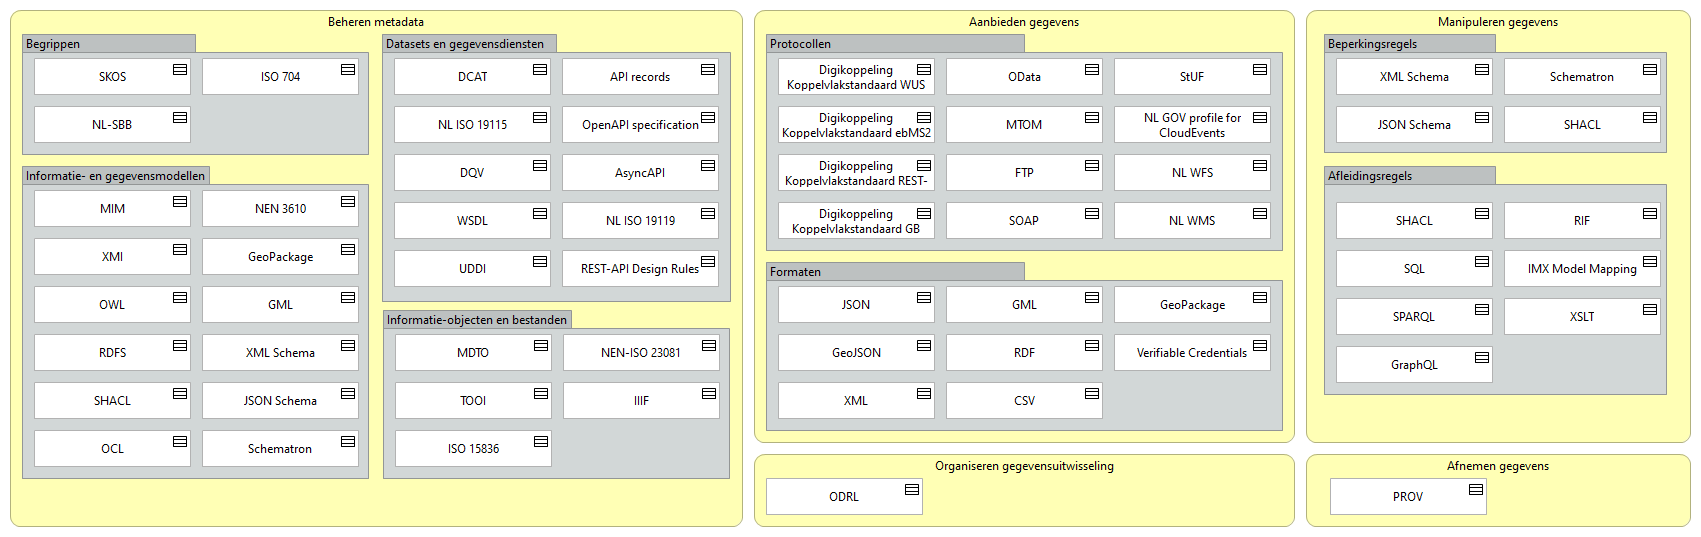
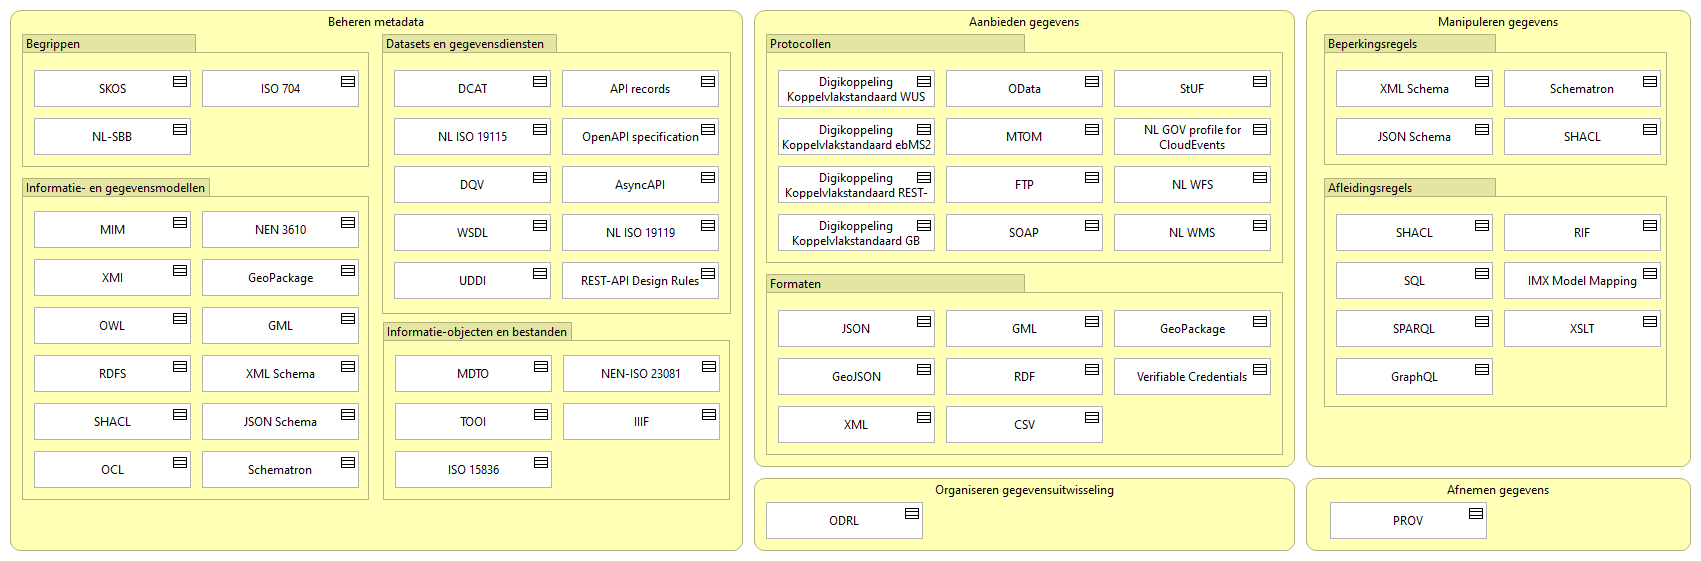
kleuren aangepast

diff --git a/docs/id-06c6c1de430644b9adb865225da06cba/views/id-5df0c1360768493aa966c16f7dbfd414.html b/docs/id-06c6c1de430644b9adb865225da06cba/views/id-5df0c1360768493aa966c16f7dbfd414.html
@@ -33,95 +33,95 @@
 		    <!-- If this is a digram model (has children and no bounds) show the image -->
 			   <img class="diagram" src="../images/id-5df0c1360768493aa966c16f7dbfd414.png" alt="Standaarden gegroepeerd en geplot op functiemodel" usemap="#id-5df0c1360768493aa966c16f7dbfd414map"/>
 			   <map name="id-5df0c1360768493aa966c16f7dbfd414map">
-				  						<area shape="rect" coords="1504,298,1661,335" href="../elements/id-3e6ad97c9bc74210bbea46c1fe68208b.html"  target="element">
-				  						<area shape="rect" coords="1504,250,1661,287" href="../elements/id-441204b5c66b4d9f81589e4fdf886785.html"  target="element">
-				  						<area shape="rect" coords="1504,202,1661,239" href="../elements/id-125c4966bbf148bf8541531a91f39283.html"  target="element">
-				  						<area shape="rect" coords="1336,346,1493,383" href="../elements/id-c8c66ab247eb4f9b859b7c0f69b90872.html"  target="element">
-				  						<area shape="rect" coords="1336,298,1493,335" href="../elements/id-3ca9fcd1aa264c968e61a7912a685121.html"  target="element">
-				  						<area shape="rect" coords="1336,250,1493,287" href="../elements/id-99d93362b7a24f169412c92eb8435b34.html"  target="element">
-				  						<area shape="rect" coords="1336,202,1493,239" href="../elements/id-9957613fefeb4416b5fe9f31c89f86fc.html"  target="element">
+				  						<area shape="rect" coords="1504,310,1661,347" href="../elements/id-3e6ad97c9bc74210bbea46c1fe68208b.html"  target="element">
+				  						<area shape="rect" coords="1504,262,1661,299" href="../elements/id-441204b5c66b4d9f81589e4fdf886785.html"  target="element">
+				  						<area shape="rect" coords="1504,214,1661,251" href="../elements/id-125c4966bbf148bf8541531a91f39283.html"  target="element">
+				  						<area shape="rect" coords="1336,358,1493,395" href="../elements/id-c8c66ab247eb4f9b859b7c0f69b90872.html"  target="element">
+				  						<area shape="rect" coords="1336,310,1493,347" href="../elements/id-3ca9fcd1aa264c968e61a7912a685121.html"  target="element">
+				  						<area shape="rect" coords="1336,262,1493,299" href="../elements/id-99d93362b7a24f169412c92eb8435b34.html"  target="element">
+				  						<area shape="rect" coords="1336,214,1493,251" href="../elements/id-9957613fefeb4416b5fe9f31c89f86fc.html"  target="element">
 
-				  		        <area shape="rect" coords="1324,166,1667,395" href="../objects/id-4c2ac36b805d421390f3b24bbf44feae.html" target="element" >
-				  						<area shape="rect" coords="1504,106,1661,143" href="../elements/id-9957613fefeb4416b5fe9f31c89f86fc.html"  target="element">
-				  						<area shape="rect" coords="1504,58,1661,95" href="../elements/id-b1f2d4efd8ca4e19b13845ca9fdf34e2.html"  target="element">
-				  						<area shape="rect" coords="1336,106,1493,143" href="../elements/id-012150ce7a0c4a499a85c0988e5ce91e.html"  target="element">
-				  						<area shape="rect" coords="1336,58,1493,95" href="../elements/id-ee13690beff44cc0a0665f999476463d.html"  target="element">
+				  		        <area shape="rect" coords="1324,178,1667,407" href="../objects/id-4c2ac36b805d421390f3b24bbf44feae.html" target="element" >
+				  						<area shape="rect" coords="1504,118,1661,155" href="../elements/id-9957613fefeb4416b5fe9f31c89f86fc.html"  target="element">
+				  						<area shape="rect" coords="1504,70,1661,107" href="../elements/id-b1f2d4efd8ca4e19b13845ca9fdf34e2.html"  target="element">
+				  						<area shape="rect" coords="1336,118,1493,155" href="../elements/id-012150ce7a0c4a499a85c0988e5ce91e.html"  target="element">
+				  						<area shape="rect" coords="1336,70,1493,107" href="../elements/id-ee13690beff44cc0a0665f999476463d.html"  target="element">
 
-				  		        <area shape="rect" coords="1324,34,1667,153" href="../objects/id-e301a178e8774ff689765facec1493f6.html" target="element" >
+				  		        <area shape="rect" coords="1324,34,1667,165" href="../objects/id-e301a178e8774ff689765facec1493f6.html" target="element" >
 
-				  		<area shape="rect" coords="1306,10,1691,443" href="../elements/id-592dc350d1034ca280d27157e17ba09d.html"  target="element">
-				  						<area shape="rect" coords="563,382,720,419" href="../elements/id-e82414e647a448f4816d251afbed95d1.html"  target="element">
-				  						<area shape="rect" coords="563,334,720,371" href="../elements/id-9fc7137199c44f72b3a1a4557b491b15.html"  target="element">
-				  						<area shape="rect" coords="395,430,552,467" href="../elements/id-935805421c6c4a198247268a383f1502.html"  target="element">
-				  						<area shape="rect" coords="395,382,552,419" href="../elements/id-26c6abcd7f0347fb9b566f5c50f73678.html"  target="element">
-				  						<area shape="rect" coords="395,334,552,371" href="../elements/id-a4f0adfcdb0a48b09dffca187942be2f.html"  target="element">
+				  		<area shape="rect" coords="1306,10,1691,467" href="../elements/id-592dc350d1034ca280d27157e17ba09d.html"  target="element">
+				  						<area shape="rect" coords="563,403,720,440" href="../elements/id-e82414e647a448f4816d251afbed95d1.html"  target="element">
+				  						<area shape="rect" coords="563,355,720,392" href="../elements/id-9fc7137199c44f72b3a1a4557b491b15.html"  target="element">
+				  						<area shape="rect" coords="395,451,552,488" href="../elements/id-935805421c6c4a198247268a383f1502.html"  target="element">
+				  						<area shape="rect" coords="395,403,552,440" href="../elements/id-26c6abcd7f0347fb9b566f5c50f73678.html"  target="element">
+				  						<area shape="rect" coords="395,355,552,392" href="../elements/id-a4f0adfcdb0a48b09dffca187942be2f.html"  target="element">
 
-				  		        <area shape="rect" coords="383,310,730,479" href="../objects/id-2fc6768e4e7b438aad6192299a18b505.html" target="element" >
-				  						<area shape="rect" coords="394,154,551,191" href="../elements/id-e0d8e49a8835411480e65327bd7ba1c8.html"  target="element">
-				  						<area shape="rect" coords="562,202,719,239" href="../elements/id-a0568aba80d34619bc044f4402dae40b.html"  target="element">
-				  						<area shape="rect" coords="394,106,551,143" href="../elements/id-cab0a76c50bd4434b28bb8a58cded851.html"  target="element">
-				  						<area shape="rect" coords="394,58,551,95" href="../elements/id-3d5b863efcaa4dab9831e9a763c7c0a0.html"  target="element">
-				  						<area shape="rect" coords="562,58,719,95" href="../elements/id-474b0743f79c46e59701a4aa33966d35.html"  target="element">
-				  						<area shape="rect" coords="394,250,551,287" href="../elements/id-d62d63e8c4c44ebb957d0b7d4ccfb283.html"  target="element">
-				  						<area shape="rect" coords="394,202,551,239" href="../elements/id-999e143b0b9c465a971be0958ccda0ac.html"  target="element">
-				  						<area shape="rect" coords="562,154,719,191" href="../elements/id-7ef79f8f78ee469cb58fed98ada92fa0.html"  target="element">
-				  						<area shape="rect" coords="562,106,719,143" href="../elements/id-409e3161ef8c4800b07feddfa60438be.html"  target="element">
-				  						<area shape="rect" coords="562,250,719,287" href="../elements/id-588c85e3a4274bf89abf65d7e20ecc52.html"  target="element">
+				  		        <area shape="rect" coords="383,322,730,500" href="../objects/id-2fc6768e4e7b438aad6192299a18b505.html" target="element" >
+				  						<area shape="rect" coords="394,166,551,203" href="../elements/id-e0d8e49a8835411480e65327bd7ba1c8.html"  target="element">
+				  						<area shape="rect" coords="562,214,719,251" href="../elements/id-a0568aba80d34619bc044f4402dae40b.html"  target="element">
+				  						<area shape="rect" coords="394,118,551,155" href="../elements/id-cab0a76c50bd4434b28bb8a58cded851.html"  target="element">
+				  						<area shape="rect" coords="394,70,551,107" href="../elements/id-3d5b863efcaa4dab9831e9a763c7c0a0.html"  target="element">
+				  						<area shape="rect" coords="562,70,719,107" href="../elements/id-474b0743f79c46e59701a4aa33966d35.html"  target="element">
+				  						<area shape="rect" coords="394,262,551,299" href="../elements/id-d62d63e8c4c44ebb957d0b7d4ccfb283.html"  target="element">
+				  						<area shape="rect" coords="394,214,551,251" href="../elements/id-999e143b0b9c465a971be0958ccda0ac.html"  target="element">
+				  						<area shape="rect" coords="562,166,719,203" href="../elements/id-7ef79f8f78ee469cb58fed98ada92fa0.html"  target="element">
+				  						<area shape="rect" coords="562,118,719,155" href="../elements/id-409e3161ef8c4800b07feddfa60438be.html"  target="element">
+				  						<area shape="rect" coords="562,262,719,299" href="../elements/id-588c85e3a4274bf89abf65d7e20ecc52.html"  target="element">
 
-				  		        <area shape="rect" coords="382,34,731,302" href="../objects/id-8c3e3ec6245947cf89fbc5c56ebb1b5a.html" target="element" >
-				  						<area shape="rect" coords="202,430,359,467" href="../elements/id-b1f2d4efd8ca4e19b13845ca9fdf34e2.html"  target="element">
-				  						<area shape="rect" coords="202,382,359,419" href="../elements/id-012150ce7a0c4a499a85c0988e5ce91e.html"  target="element">
-				  						<area shape="rect" coords="202,334,359,371" href="../elements/id-ee13690beff44cc0a0665f999476463d.html"  target="element">
-				  						<area shape="rect" coords="202,286,359,323" href="../elements/id-87585006a7064d2785691958b2685666.html"  target="element">
-				  						<area shape="rect" coords="202,238,359,275" href="../elements/id-5ed202d85d9e456f81225e62b0db4173.html"  target="element">
-				  						<area shape="rect" coords="202,190,359,227" href="../elements/id-3298e10c0bf245e6be426a6f6f426c04.html"  target="element">
-				  						<area shape="rect" coords="34,430,191,467" href="../elements/id-777c2d5eaad54f69a3d14040208d876f.html"  target="element">
-				  						<area shape="rect" coords="34,382,191,419" href="../elements/id-9957613fefeb4416b5fe9f31c89f86fc.html"  target="element">
-				  						<area shape="rect" coords="34,334,191,371" href="../elements/id-174669a667d34069bf69344e92386aca.html"  target="element">
-				  						<area shape="rect" coords="34,286,191,323" href="../elements/id-f276d9bd12e24ab5aa29e87cadf88edc.html"  target="element">
-				  						<area shape="rect" coords="34,238,191,275" href="../elements/id-96f8db645b214fa5ae7d386fdaaa9772.html"  target="element">
-				  						<area shape="rect" coords="34,190,191,227" href="../elements/id-38939476dfd441e7a3ecec1997391988.html"  target="element">
+				  		        <area shape="rect" coords="382,34,731,314" href="../objects/id-8c3e3ec6245947cf89fbc5c56ebb1b5a.html" target="element" >
+				  						<area shape="rect" coords="202,451,359,488" href="../elements/id-b1f2d4efd8ca4e19b13845ca9fdf34e2.html"  target="element">
+				  						<area shape="rect" coords="202,403,359,440" href="../elements/id-012150ce7a0c4a499a85c0988e5ce91e.html"  target="element">
+				  						<area shape="rect" coords="202,355,359,392" href="../elements/id-ee13690beff44cc0a0665f999476463d.html"  target="element">
+				  						<area shape="rect" coords="202,307,359,344" href="../elements/id-87585006a7064d2785691958b2685666.html"  target="element">
+				  						<area shape="rect" coords="202,259,359,296" href="../elements/id-5ed202d85d9e456f81225e62b0db4173.html"  target="element">
+				  						<area shape="rect" coords="202,211,359,248" href="../elements/id-3298e10c0bf245e6be426a6f6f426c04.html"  target="element">
+				  						<area shape="rect" coords="34,451,191,488" href="../elements/id-777c2d5eaad54f69a3d14040208d876f.html"  target="element">
+				  						<area shape="rect" coords="34,403,191,440" href="../elements/id-9957613fefeb4416b5fe9f31c89f86fc.html"  target="element">
+				  						<area shape="rect" coords="34,355,191,392" href="../elements/id-174669a667d34069bf69344e92386aca.html"  target="element">
+				  						<area shape="rect" coords="34,307,191,344" href="../elements/id-f276d9bd12e24ab5aa29e87cadf88edc.html"  target="element">
+				  						<area shape="rect" coords="34,259,191,296" href="../elements/id-96f8db645b214fa5ae7d386fdaaa9772.html"  target="element">
+				  						<area shape="rect" coords="34,211,191,248" href="../elements/id-38939476dfd441e7a3ecec1997391988.html"  target="element">
 
-				  		        <area shape="rect" coords="22,166,369,479" href="../objects/id-13fbf7d58a8641fd82d2949d1f8f3dcc.html" target="element" >
-				  						<area shape="rect" coords="202,58,359,95" href="../elements/id-f1aa076158c34d2db2f25225e2088716.html"  target="element">
-				  						<area shape="rect" coords="34,106,191,143" href="../elements/id-8f9e6d3dc7474a3badf242f9efca5d84.html"  target="element">
-				  						<area shape="rect" coords="34,58,191,95" href="../elements/id-ec0dc19e62ab4c4e84870fb56d0499dc.html"  target="element">
+				  		        <area shape="rect" coords="22,178,369,500" href="../objects/id-13fbf7d58a8641fd82d2949d1f8f3dcc.html" target="element" >
+				  						<area shape="rect" coords="202,70,359,107" href="../elements/id-f1aa076158c34d2db2f25225e2088716.html"  target="element">
+				  						<area shape="rect" coords="34,118,191,155" href="../elements/id-8f9e6d3dc7474a3badf242f9efca5d84.html"  target="element">
+				  						<area shape="rect" coords="34,70,191,107" href="../elements/id-ec0dc19e62ab4c4e84870fb56d0499dc.html"  target="element">
 
-				  		        <area shape="rect" coords="22,34,369,155" href="../objects/id-113b82041e6c4b14a65cf34f97b29f6a.html" target="element" >
+				  		        <area shape="rect" coords="22,34,369,167" href="../objects/id-113b82041e6c4b14a65cf34f97b29f6a.html" target="element" >
 
-				  		<area shape="rect" coords="10,10,743,527" href="../elements/id-e8e0fadbd63b479d95144f268ac1d2af.html"  target="element">
-				  				<area shape="rect" coords="766,478,923,515" href="../elements/id-714fa7ea96be48cba1706469489f9149.html"  target="element">
+				  		<area shape="rect" coords="10,10,743,551" href="../elements/id-e8e0fadbd63b479d95144f268ac1d2af.html"  target="element">
+				  				<area shape="rect" coords="766,502,923,539" href="../elements/id-714fa7ea96be48cba1706469489f9149.html"  target="element">
 
-				  		<area shape="rect" coords="754,454,1295,527" href="../elements/id-80e3338ec5a94dc4a0bab92c6d9b286a.html"  target="element">
-				  				<area shape="rect" coords="1330,478,1487,515" href="../elements/id-3ec1d2a0555643dab1efad21091302fb.html"  target="element">
+				  		<area shape="rect" coords="754,478,1295,551" href="../elements/id-80e3338ec5a94dc4a0bab92c6d9b286a.html"  target="element">
+				  				<area shape="rect" coords="1330,502,1487,539" href="../elements/id-3ec1d2a0555643dab1efad21091302fb.html"  target="element">
 
-				  		<area shape="rect" coords="1306,454,1691,527" href="../elements/id-b160b994f4554d128443e7406af8d09e.html"  target="element">
-				  						<area shape="rect" coords="1114,334,1271,371" href="../elements/id-42fb4b9ea0084a5cac6a73ea48cafdc1.html"  target="element">
-				  						<area shape="rect" coords="1114,286,1271,323" href="../elements/id-5ed202d85d9e456f81225e62b0db4173.html"  target="element">
-				  						<area shape="rect" coords="946,382,1103,419" href="../elements/id-408a3071f48247ef84b5e5f3a70145d1.html"  target="element">
-				  						<area shape="rect" coords="946,334,1103,371" href="../elements/id-47375829d8834ab0aed08e07f2669177.html"  target="element">
-				  						<area shape="rect" coords="946,286,1103,323" href="../elements/id-87585006a7064d2785691958b2685666.html"  target="element">
-				  						<area shape="rect" coords="778,382,935,419" href="../elements/id-26eb8e42d05345ee9d2dec8f92db0845.html"  target="element">
-				  						<area shape="rect" coords="778,334,935,371" href="../elements/id-aa5a89908e8a48bbb21d48035749356e.html"  target="element">
-				  						<area shape="rect" coords="778,286,935,323" href="../elements/id-68c5c05799654d6e9db505d0ccc70c7c.html"  target="element">
+				  		<area shape="rect" coords="1306,478,1691,551" href="../elements/id-b160b994f4554d128443e7406af8d09e.html"  target="element">
+				  						<area shape="rect" coords="1114,358,1271,395" href="../elements/id-42fb4b9ea0084a5cac6a73ea48cafdc1.html"  target="element">
+				  						<area shape="rect" coords="1114,310,1271,347" href="../elements/id-5ed202d85d9e456f81225e62b0db4173.html"  target="element">
+				  						<area shape="rect" coords="946,406,1103,443" href="../elements/id-408a3071f48247ef84b5e5f3a70145d1.html"  target="element">
+				  						<area shape="rect" coords="946,358,1103,395" href="../elements/id-47375829d8834ab0aed08e07f2669177.html"  target="element">
+				  						<area shape="rect" coords="946,310,1103,347" href="../elements/id-87585006a7064d2785691958b2685666.html"  target="element">
+				  						<area shape="rect" coords="778,406,935,443" href="../elements/id-26eb8e42d05345ee9d2dec8f92db0845.html"  target="element">
+				  						<area shape="rect" coords="778,358,935,395" href="../elements/id-aa5a89908e8a48bbb21d48035749356e.html"  target="element">
+				  						<area shape="rect" coords="778,310,935,347" href="../elements/id-68c5c05799654d6e9db505d0ccc70c7c.html"  target="element">
 
-				  		        <area shape="rect" coords="766,262,1283,431" href="../objects/id-d050a8e37a054605b62a3622a4b9ccd1.html" target="element" >
-				  						<area shape="rect" coords="1114,202,1271,239" href="../elements/id-1c367a0327754eac874548647a5cd0c7.html"  target="element">
-				  						<area shape="rect" coords="1114,154,1271,191" href="../elements/id-2979e5e931ed47549400cd4d248b7ff3.html"  target="element">
-				  						<area shape="rect" coords="1114,106,1271,143" href="../elements/id-21e0dc2067d64e79a14b3ecbf96688bd.html"  target="element">
-				  						<area shape="rect" coords="1114,58,1271,95" href="../elements/id-4df866f399c2471a85440fb175dd7ea1.html"  target="element">
-				  						<area shape="rect" coords="946,202,1103,239" href="../elements/id-e5f0cf03b2394868958703e87f225704.html"  target="element">
-				  						<area shape="rect" coords="946,154,1103,191" href="../elements/id-2d4f9326e7c14b37a90e2db3d5055066.html"  target="element">
-				  						<area shape="rect" coords="946,106,1103,143" href="../elements/id-edd8d684d4254ead97962bd26d590b8f.html"  target="element">
-				  						<area shape="rect" coords="946,58,1103,95" href="../elements/id-53aabc3cdfe64b6284c482a961ea6bff.html"  target="element">
-				  						<area shape="rect" coords="778,202,935,239" href="../elements/id-aa9c73f1de2d4702be5a64325b46b947.html"  target="element">
-				  						<area shape="rect" coords="778,154,935,191" href="../elements/id-3d7598af0f46469fbef2ed159565e72e.html"  target="element">
-				  						<area shape="rect" coords="778,106,935,143" href="../elements/id-2e244ecbcfd64b0fbc1e351fec1d1204.html"  target="element">
-				  						<area shape="rect" coords="778,58,935,95" href="../elements/id-6055747b07b34d75b8eef2c07dada2a1.html"  target="element">
+				  		        <area shape="rect" coords="766,274,1283,455" href="../objects/id-d050a8e37a054605b62a3622a4b9ccd1.html" target="element" >
+				  						<area shape="rect" coords="1114,214,1271,251" href="../elements/id-1c367a0327754eac874548647a5cd0c7.html"  target="element">
+				  						<area shape="rect" coords="1114,166,1271,203" href="../elements/id-2979e5e931ed47549400cd4d248b7ff3.html"  target="element">
+				  						<area shape="rect" coords="1114,118,1271,155" href="../elements/id-21e0dc2067d64e79a14b3ecbf96688bd.html"  target="element">
+				  						<area shape="rect" coords="1114,70,1271,107" href="../elements/id-4df866f399c2471a85440fb175dd7ea1.html"  target="element">
+				  						<area shape="rect" coords="946,214,1103,251" href="../elements/id-e5f0cf03b2394868958703e87f225704.html"  target="element">
+				  						<area shape="rect" coords="946,166,1103,203" href="../elements/id-2d4f9326e7c14b37a90e2db3d5055066.html"  target="element">
+				  						<area shape="rect" coords="946,118,1103,155" href="../elements/id-edd8d684d4254ead97962bd26d590b8f.html"  target="element">
+				  						<area shape="rect" coords="946,70,1103,107" href="../elements/id-53aabc3cdfe64b6284c482a961ea6bff.html"  target="element">
+				  						<area shape="rect" coords="778,214,935,251" href="../elements/id-aa9c73f1de2d4702be5a64325b46b947.html"  target="element">
+				  						<area shape="rect" coords="778,166,935,203" href="../elements/id-3d7598af0f46469fbef2ed159565e72e.html"  target="element">
+				  						<area shape="rect" coords="778,118,935,155" href="../elements/id-2e244ecbcfd64b0fbc1e351fec1d1204.html"  target="element">
+				  						<area shape="rect" coords="778,70,935,107" href="../elements/id-6055747b07b34d75b8eef2c07dada2a1.html"  target="element">
 
-				  		        <area shape="rect" coords="766,34,1283,251" href="../objects/id-6f19fdcc5111481ca76166b4e19114cb.html" target="element" >
+				  		        <area shape="rect" coords="766,34,1283,263" href="../objects/id-6f19fdcc5111481ca76166b4e19114cb.html" target="element" >
 
-				  		<area shape="rect" coords="754,10,1295,443" href="../elements/id-0da09931f8ac4b368c786703913087bf.html"  target="element">
+				  		<area shape="rect" coords="754,10,1295,467" href="../elements/id-0da09931f8ac4b368c786703913087bf.html"  target="element">
 
 			   </map>
 
